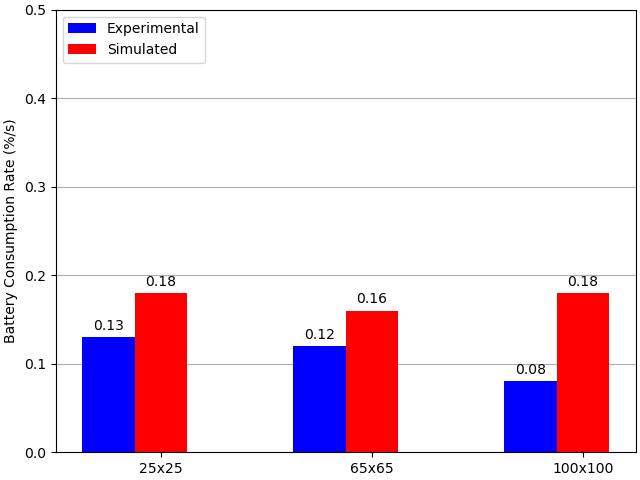
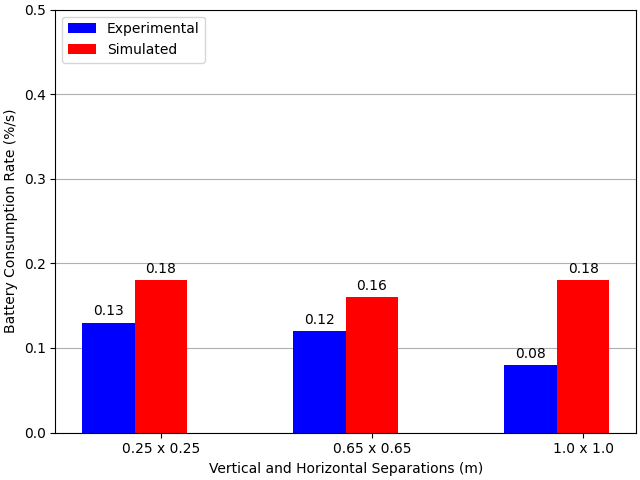
Re-made the bar charts with x-axes.

diff --git a/OtherPlots.py b/OtherPlots.py
@@ -1,7 +1,7 @@
 import matplotlib.pyplot as plt
 import numpy as np
 
-separations = ("25x25", "65x65", "100x100")
+separations = ("0.25 x 0.25", "0.65 x 0.65", "1.0 x 1.0")
 halfSpeed = {
     "Experimental": (0.13, 0.12, 0.08),
     "Simulated": (0.18, 0.16, 0.18)
@@ -35,6 +35,7 @@ for i in range(2):
 
     # Add some text for labels, title and custom x-axis tick labels, etc.
     ax.set_ylabel('Battery Consumption Rate (%/s)')
+    ax.set_xlabel("Vertical and Horizontal Separations (m)")
     # ax.set_title('Battery Consumption Rate at 0.5 m/s')
     ax.set_xticks(x + width, separations)
     ax.legend(loc='upper left')
